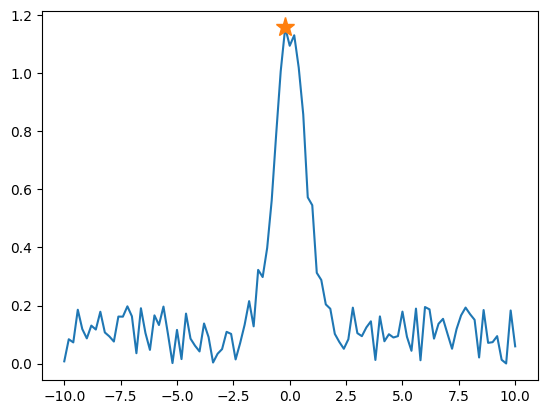
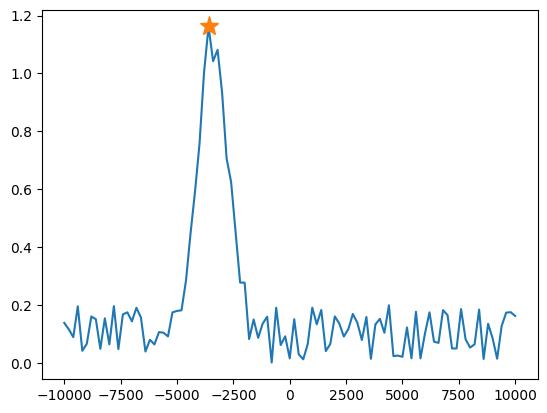
updates to documentation

diff --git a/docs/calibration_nodes.md b/docs/calibration_nodes.md
@@ -13,14 +13,15 @@ import numpy as np
 from matplotlib import pyplot as plt
 
 # Define input parameters
-span = 20
+span = 20e3
 num_points = 101
 
 # Generate data
-offset = np.random.rand() * 3
+offset = np.random.rand() * span / 5
+width = span / 20
 noise_factor = 0.2
 sweep_values = np.linspace(-span / 2, span / 2, num_points)
-gaussian = np.exp(-((sweep_values + offset) ** 2))
+gaussian = np.exp(-((sweep_values + offset) / width) ** 2)
 noise = noise_factor * np.random.rand(num_points)
 data = gaussian + noise
 
@@ -54,7 +55,7 @@ Instead of defining parameters as standalone variables, we group them together i
 
 ```python
 class Parameters(NodeParameters):
-    span: float = 20
+    span: float = 20e3
     num_points: int = 101
 ```
 Using `NodeParameters` allows parameters to be modified externally, such as through the QUAlibrate web interface. For example, this makes it easy to adapt calibration settings for different hardware configurations without changing the code.
@@ -129,21 +130,22 @@ from qualibrate import NodeParameters, QualibrationNode
 
 # Define input parameters for QualibrationNode
 class Parameters(NodeParameters):
-    span: float = 20
+    span: float = 20e3
     num_points: int = 101
 
 # Create QualibrationNode
 node = QualibrationNode("emulated_calibration", parameters=Parameters())
 
 # Generate data using node parameters
-offset = np.random.rand() * 3
+offset = np.random.rand() * node.parameters.span / 5
+width = node.parameters.span / 20
 noise_factor = 0.2
 sweep_values = np.linspace(
     -node.parameters.span / 2, 
     node.parameters.span / 2, 
     node.parameters.num_points
 )
-gaussian = np.exp(-((sweep_values + offset) ** 2))
+gaussian = np.exp(-((sweep_values + offset) / width) ** 2)
 noise = noise_factor * np.random.rand(node.parameters.num_points)
 data = gaussian + noise
 

diff --git a/docs/index.md b/docs/index.md
@@ -21,15 +21,6 @@ QUAlibrate is a comprehensive platform that enables users to create, manage, and
 3. **Run Calibrations**: Start running calibration nodes or graphs through either the Python interface or the web app. Learn more about each method in the [Calibration Nodes](calibration_nodes.md) and [Calibration Graphs](calibration_graphs.md) sections.
 4. **Use the Web App**: Access and operate your calibration routines through an easy-to-use web interface. More information is available on the [Web App](web_app.md) page.
 
-## Documentation Roadmap
-Explore the following sections to dive deeper into QUAlibrate:
-- **[Installation](installation.md)**: Step-by-step instructions for installing QUAlibrate.
-- **[Calibration Nodes](calibration_nodes.md)**: Learn how to create and use individual calibration nodes.
-- **[Calibration Library](calibration_library.md)**: Understand how to organize and manage calibration nodes and graphs.
-- **[Calibration Graphs](calibration_graphs.md)**: Discover how to build complex calibration workflows that adapt to outcomes in real-time.
-- **[Web App](web_app.md)**: A guide to using the QUAlibrate web app for calibration operations.
-- **[Configuration](configuration.md)**: Details on the QUAlibrate configuration file
-
 ## Core Components
 
 ### [Calibration Nodes](calibration_nodes.md)

diff --git a/README.md b/README.md
@@ -16,10 +16,11 @@ QUAlibrate is an open-source calibration platform designed specifically for quan
 
 ## Installation
 
-QUAlibrate requires Python ≥ 3.9.
-To get started, follow these steps:
+**Requirements**
+QUAlibrate requires Python ≥ 3.9. It is also recommended to use a [virtual environment](https://packaging.python.org/en/latest/guides/installing-using-pip-and-virtual-environments/).
 
 1. **Install QUAlibrate**
+   Run the following command in a terminal:
 
    ```bash
    pip install qualibrate

diff --git a/docs/web_app.md b/docs/web_app.md
@@ -49,4 +49,4 @@ Here you can see the progress of the graph execution, including the results of e
 The `Data` page shows the results of all nodes that have been executed.
 This includes the node results, but also the QUAM state, and any updates to QUAM that occured while executing this node.
 
-![Node Page](assets/web_app/node_page.png){ max-width="700px" }
+![Node Page](assets/web_app/data_page.png){ max-width="700px" }

diff --git a/docs/installation.md b/docs/installation.md
@@ -6,7 +6,7 @@ This guide will provide a detailed walkthrough for installing QUAlibrate, a user
 
 /// tab | For Windows
 - Windows 10 (build 1809 and later), or Windows 11
-- 3.9 ≤ Python ≤ 3.11, we recommend Python 3.10 or 3.11
+- Python ≥ 3.9, we recommend Python 3.10 or higher
 
 /// details | Using a virtual environment in Windows
     type: tip
